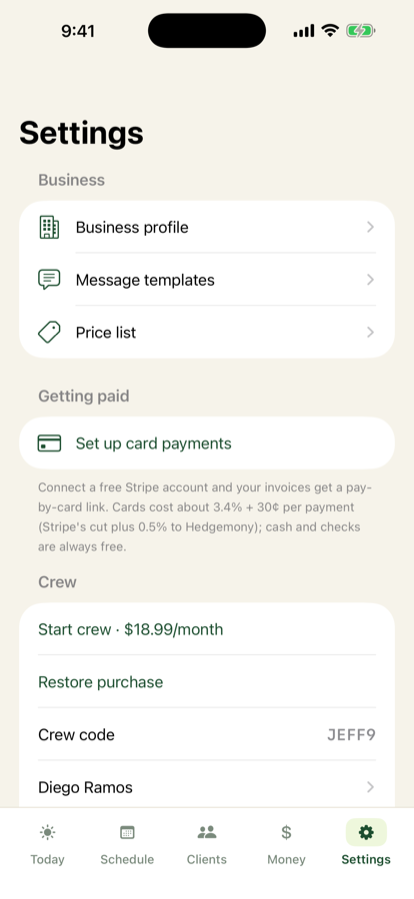
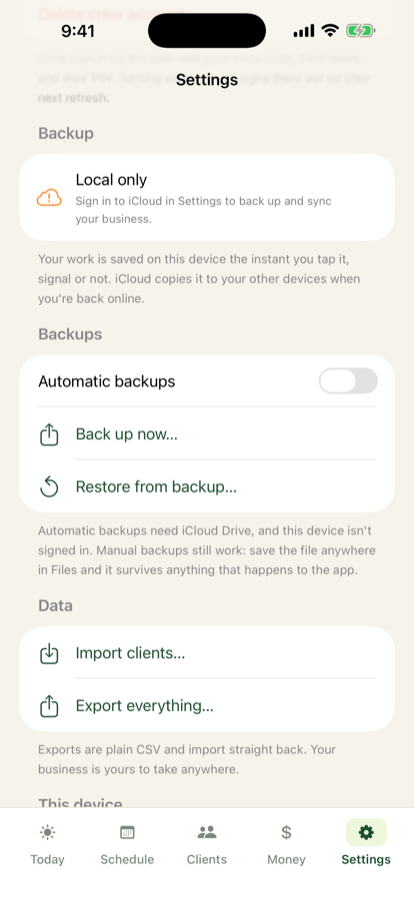
Guide: the crew chapter's screenshots, from a crew-enabled simulator
I said these could not be recaptured from the demo seed. That was true
of the seed and false as a conclusion: the simulator can be crew-enabled
in about a minute, by registering an operator through Settings and
flipping comped in D1. Jeffery asked why not, and there was no good
reason.

The JEFF9 hazard does not apply. Registering from this sim mints a NEW
operator with its own id and join code — JEFF2, comped — so App Review's
route is untouched. That hazard was always specific to the old Pro Max
carrying JEFF9's token, not to crew-enabling a simulator as such.

Three images, all verified under a finger rather than composed:
  who-rides-menu  Who rides sits ABOVE the divider in the team button's
                  menu, which is the placement the guide now describes
                  and which I had documented wrongly twice before
                  checking
  seating         the chart with the owner every day and Diego on Mon,
                  Wed and Fri — taps that wrote through to team_riders
  crew            the Settings crew section with a real code and roster,
                  replacing a shot taken before the yard list was
                  removed from Teams

teams.png deleted: it showed the Schedule tab filtered to a team with
seating underneath, a layout that predates the move, and nothing
references it now.

diff --git a/guide.html b/guide.html
@@ -584,10 +584,13 @@ Spanish; they flip it themselves with one tap.</p>
 everything crew-related from the server, permanently. Your clients, schedule, and money
 on your phone are untouched.</p>
 </div>
-<figure><img src="guide/teams.png" alt="Schedule tab filtered to a team"><figcaption>North
-crew's week: who's riding each day, and Sunday caught with no one seated.</figcaption>
+<figure><img src="guide/who-rides-menu.png" alt="The team button on the Schedule tab"><figcaption>The
+team button above the week: Who rides sits above the filter, because it is the action and
+the rest is a view.</figcaption>
+<img src="guide/seating.png" alt="The seating chart" style="margin-top:14px"><figcaption>The
+chart itself: you every day, Diego on Monday, Wednesday and Friday.</figcaption>
 <img src="guide/crew.png" alt="Crew settings" style="margin-top:14px"><figcaption>The crew
-section: code, roster, teams — and the subscription that turns it on.</figcaption></figure>
+section in Settings: code, roster, teams — and the subscription that turns it on.</figcaption></figure>
 </div>
 
 <h2 id="setup">14. Your business, your data</h2>
